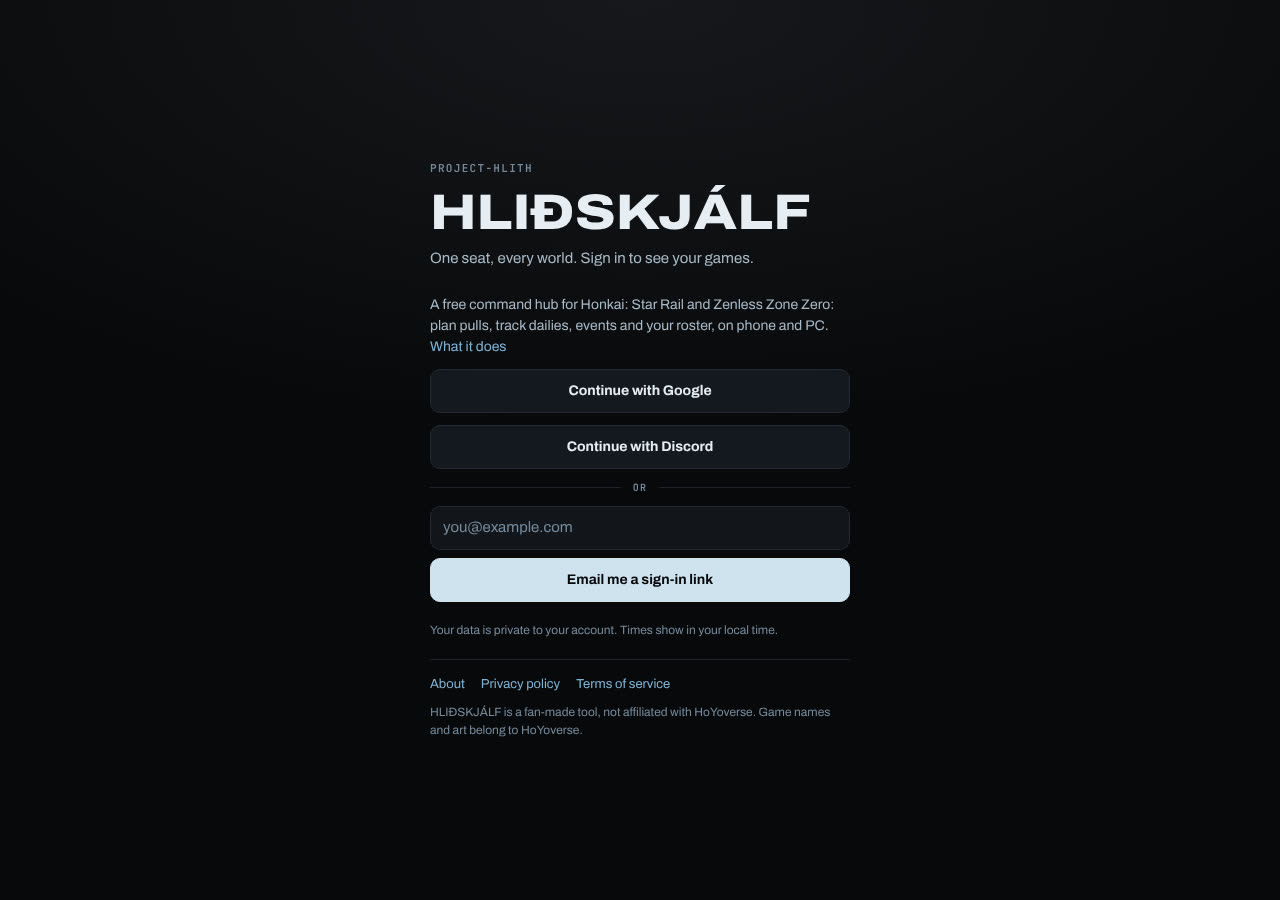
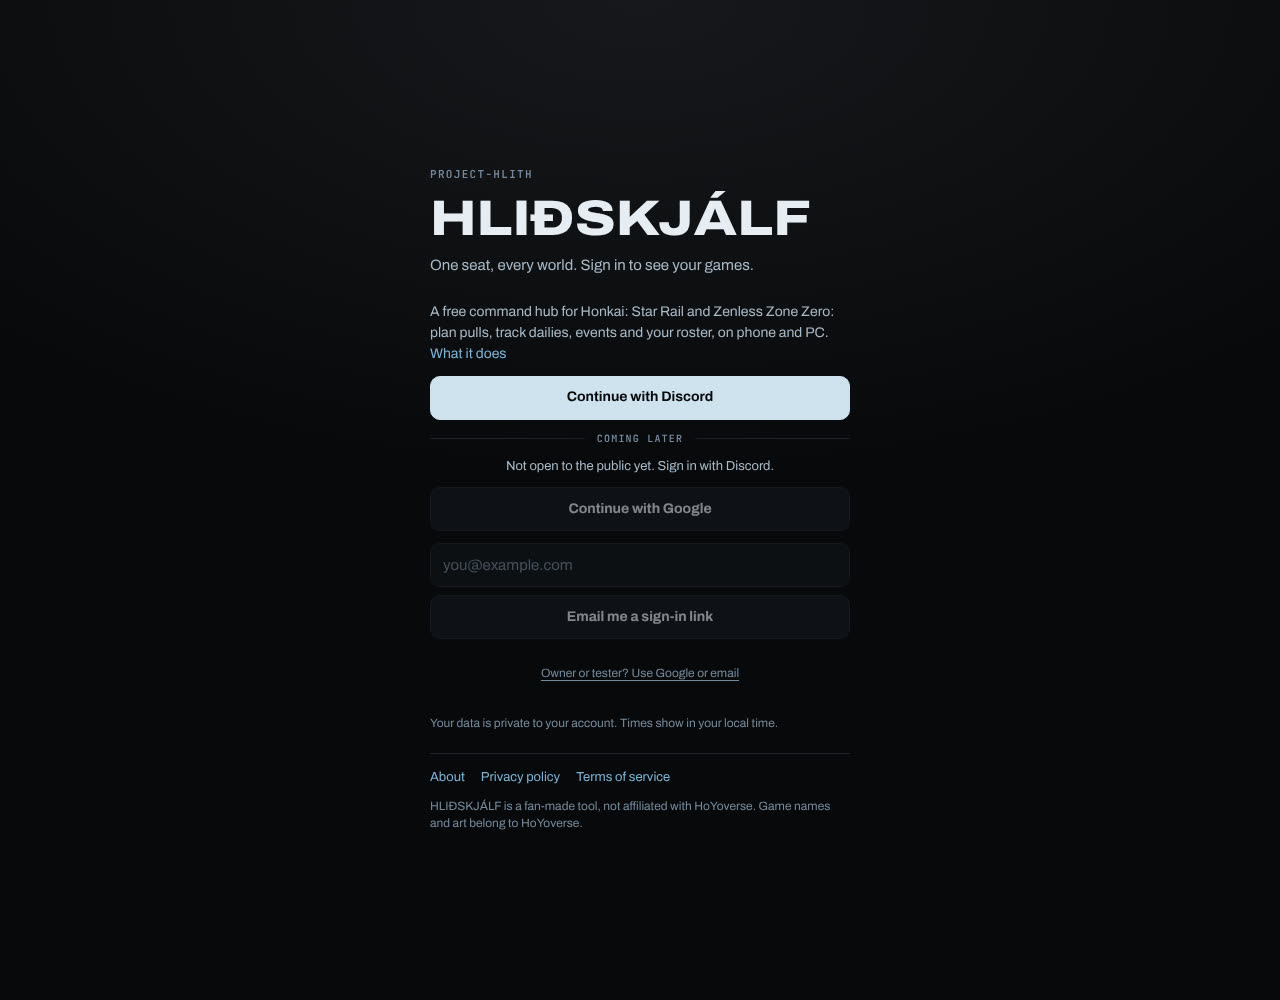
Sign-in: Discord first; Google and email not open to the public yet, with an owner/tester unlock (T55)
Discord is open to everyone and is the main button. Google (still in Google's testing mode) and
the email link (no mail service yet) are greyed out under "Not open to the public yet. Sign in
with Discord." A small "Owner or tester? Use Google or email" link unlocks them on that device
(remembered), so nobody is locked out. The privacy policy now says exactly what each sign-in
gives us; for Discord: user ID, username, display name, avatar link and email (Supabase always
asks Discord for identify + email and needs the email). About says Discord now, the rest later.

Claude-Session: https://claude.ai/code/session_01JhX321c2CZBUjDK5Z6yXKX

Changed region(s): [[0.3125, 0.1556, 0.6875, 0.5289], [0.3125, 0.56, 0.6875, 0.84]]

diff --git a/src/core/auth/SignIn.tsx b/src/core/auth/SignIn.tsx
@@ -21,12 +21,29 @@ export function LegalLinks() {
   );
 }
 
-/** Login: Google, Discord, or an email sign-in link (DESIGN §4). */
+/** Remembered on this device once an owner or tester unlocks Google and email sign-in. */
+export const TESTER_KEY = 'hlith.signin.tester';
+const readTester = () => {
+  try {
+    return localStorage.getItem(TESTER_KEY) === '1';
+  } catch {
+    return false;
+  }
+};
+
+/**
+ * Login (DESIGN §4). Discord is open to everyone and comes first. Google (still in Google's
+ * "testing" mode, so only listed accounts can use it) and the email link (no mail service set up
+ * yet) are shown greyed out with "Not open to the public yet" (owner, T55). "Owner or tester?"
+ * unlocks them on this device, so the owner and listed testers are never locked out; Google itself
+ * still refuses anyone not on its test list.
+ */
 export function SignIn({ onProvider, onEmail }: Props) {
   const [email, setEmail] = useState('');
   const [sent, setSent] = useState(false);
   const [error, setError] = useState<string | null>(null);
   const [busy, setBusy] = useState(false);
+  const [tester, setTester] = useState(readTester);
 
   const run = async (task: () => Promise<string | null>, after?: () => void) => {
     setBusy(true);
@@ -38,8 +55,17 @@ export function SignIn({ onProvider, onEmail }: Props) {
   };
   const submit = (e: FormEvent) => {
     e.preventDefault();
-    if (email.trim()) void run(() => onEmail(email.trim()), () => setSent(true));
+    if (tester && email.trim()) void run(() => onEmail(email.trim()), () => setSent(true));
   };
+  const unlock = () => {
+    try {
+      localStorage.setItem(TESTER_KEY, '1');
+    } catch {
+      /* storage blocked: unlocked for this visit only */
+    }
+    setTester(true);
+  };
+  const closed = !tester;
 
   return (
     <main className={s.page}>
@@ -51,36 +77,50 @@ export function SignIn({ onProvider, onEmail }: Props) {
           A free command hub for Honkai: Star Rail and Zenless Zone Zero: plan pulls, track dailies, events and your roster, on phone and PC.{' '}
           <a href="/about">What it does</a>
         </p>
-        <Button className={s.wide} disabled={busy} onClick={() => void run(() => onProvider('google'))}>
-          Continue with Google
-        </Button>
-        <Button className={s.wide} disabled={busy} onClick={() => void run(() => onProvider('discord'))}>
+        <Button variant="primary" className={s.wide} disabled={busy} onClick={() => void run(() => onProvider('discord'))}>
           Continue with Discord
         </Button>
-        <div className={s.or}>OR</div>
-        {sent ? (
-          <p className={s.sent} role="status">
-            Check {email} for a sign-in link. It works once and expires soon.
-          </p>
-        ) : (
-          <form className={s.form} onSubmit={submit}>
-            <label className="visually-hidden" htmlFor="signin-email">
-              Email
-            </label>
-            <input
-              id="signin-email"
-              className={s.input}
-              type="email"
-              autoComplete="email"
-              placeholder="you@example.com"
-              value={email}
-              onChange={(e) => setEmail(e.target.value)}
-              required
-            />
-            <Button variant="primary" type="submit" className={s.wide} disabled={busy}>
-              Email me a sign-in link
-            </Button>
-          </form>
+
+        <div className={s.or}>{closed ? 'COMING LATER' : 'OR'}</div>
+        <div className={closed ? s.closed : s.open} aria-describedby={closed ? 'signin-closed-note' : undefined}>
+          {closed && (
+            <p className={s.closedNote} id="signin-closed-note">
+              Not open to the public yet. Sign in with Discord.
+            </p>
+          )}
+          <Button className={s.wide} disabled={busy || closed} onClick={() => void run(() => onProvider('google'))}>
+            Continue with Google
+          </Button>
+          {sent ? (
+            <p className={s.sent} role="status">
+              Check {email} for a sign-in link. It works once and expires soon.
+            </p>
+          ) : (
+            <form className={s.form} onSubmit={submit}>
+              <label className="visually-hidden" htmlFor="signin-email">
+                Email
+              </label>
+              <input
+                id="signin-email"
+                className={s.input}
+                type="email"
+                autoComplete="email"
+                placeholder="you@example.com"
+                value={email}
+                disabled={closed}
+                onChange={(e) => setEmail(e.target.value)}
+                required
+              />
+              <Button type="submit" className={s.wide} disabled={busy || closed}>
+                Email me a sign-in link
+              </Button>
+            </form>
+          )}
+        </div>
+        {closed && (
+          <button type="button" className={s.testerLink} onClick={unlock}>
+            Owner or tester? Use Google or email
+          </button>
         )}
         {error && (
           <p className={s.error} role="alert">

diff --git a/config/legal/content.ts b/config/legal/content.ts
@@ -48,7 +48,7 @@ export const ABOUT: LegalPage = {
     { h: 'Your data' },
     { p: 'No ads, no tracking, nothing sold. Your data is private to your account and you can export or delete it at any time. Read the [Privacy policy](/privacy) and the [Terms of service](/terms).' },
     { h: 'Get started' },
-    { p: '[Open HLIÐSKJÁLF](/) and sign in with Google, Discord or an email link. It’s free.' },
+    { p: '[Open HLIÐSKJÁLF](/) and sign in with Discord. It’s free. Sign-in with Google or an email link opens to everyone later.' },
     { note: FAN_NOTICE },
   ],
 };
@@ -73,7 +73,16 @@ export const PRIVACY: LegalPage = {
     { p: `HLIÐSKJÁLF (also called PROJECT-HLITH or HLITH) is a free, fan-made tool run by one person (“we” below). Questions, requests about your data, or anything else: **${CONTACT}**.` },
 
     { h: 'What we keep, and why' },
-    { p: '**Your account.** When you sign in with Google, Discord or an email link, our sign-in provider keeps your email address, which sign-in methods you used, and when you created the account and last signed in. We use this only to let you sign in and keep your data yours.' },
+    {
+      p: '**Your account.** Signing in is handled by our sign-in provider (Supabase). It keeps what the sign-in service hands over, which sign-in methods you used, when you created the account and last signed in, and short sign-in logs (with your IP address) to keep accounts safe. We use this only to let you sign in and keep your data yours, and never show your email to anyone else.',
+    },
+    {
+      list: [
+        '**Discord** (open to everyone): your Discord user ID, username, display name, avatar picture link and the email address on your Discord account. Discord always shares the email for this kind of sign-in (the “identify” and “email” permissions), and our sign-in provider needs it to create an account; HLIÐSKJÁLF doesn’t email you or use it for anything else. We never see your Discord password, messages or servers.',
+        '**Google** (not open to the public yet): your Google account ID, name, email address and profile picture link.',
+        '**Email link** (not open to the public yet): only your email address.',
+      ],
+    },
     { p: '**Your settings and game data.** What you enter or import in the app: your games and servers, layout and look, bank log, imported pulls, roster, builds, teams, plans, backlog and event progress, and today’s ticks. It is stored with your account so it follows you to every device.' },
     { p: '**Your profile.** The name, bio, title, picture and banner you choose, and which characters and badges you show. Profile pictures and banners you upload are stored as **public links** (anyone who has the exact link can open the picture) so they can be shown; your name, bio and data are not public.' },
     { p: '**Your profile card, only if you switch it on.** If you turn on “Show my profile card with teams I share”, anyone signed in to HLIÐSKJÁLF who opens a team link you shared can see your card: your name, picture, title, badge, showcase and pull counts, as far as your privacy switches allow. It is off unless you turn it on.' },
@@ -95,7 +104,7 @@ export const PRIVACY: LegalPage = {
       list: [
         '**Supabase** (database, sign-in, file storage and server functions). Our project is hosted in **London, United Kingdom** (AWS eu-west-2).',
         '**Cloudflare** (delivers the website). It sees technical request data such as your IP address, as any web host does.',
-        '**Google** or **Discord**, if you sign in with them; sign-in emails are sent through Supabase.',
+        '**Discord** (or **Google**, once open), when you sign in with them; sign-in emails (once open) are sent through Supabase.',
         '**HoYoverse / HoYoLAB**, only for the HoYoLAB and history-link features you use: our server talks to them with your login or link on your behalf.',
         '**Anthropic**, only if you use the Assistant, with your own key and under your own agreement with Anthropic. Anthropic is in the United States.',
         '**static.nanoka.cc**, a community site the game art pictures are loaded from. Your browser fetches the pictures directly, so that site sees your IP address (but not which page you were on).',

diff --git a/src/core/auth/SignIn.test.tsx b/src/core/auth/SignIn.test.tsx
@@ -1,23 +1,51 @@
 import { fireEvent, render, screen } from '@testing-library/react';
-import { describe, expect, it, vi } from 'vitest';
-import { SignIn } from './SignIn';
+import { beforeEach, describe, expect, it, vi } from 'vitest';
+import { SignIn, TESTER_KEY } from './SignIn';
 
 describe('SignIn', () => {
-  it('offers Google, Discord and an email link', async () => {
+  beforeEach(() => localStorage.clear());
+
+  it('Discord is open to everyone and comes first; Google and email are greyed out, not open to the public yet (T55)', () => {
     const onProvider = vi.fn(async () => null);
-    const onEmail = vi.fn(async () => null);
-    render(<SignIn onProvider={onProvider} onEmail={onEmail} />);
+    render(<SignIn onProvider={onProvider} onEmail={async () => null} />);
+    const buttons = screen.getAllByRole('button').map((b) => b.textContent);
+    expect(buttons[0]).toBe('Continue with Discord');
     fireEvent.click(screen.getByRole('button', { name: 'Continue with Discord' }));
     expect(onProvider).toHaveBeenCalledWith('discord');
+    expect(screen.getByText('Not open to the public yet. Sign in with Discord.')).toBeInTheDocument();
+    expect(screen.getByRole('button', { name: 'Continue with Google' })).toBeDisabled();
+    expect(screen.getByLabelText('Email')).toBeDisabled();
+    expect(screen.getByRole('button', { name: 'Email me a sign-in link' })).toBeDisabled();
+  });
+
+  it('“Owner or tester?” unlocks Google and the email link, and is remembered on this device', async () => {
+    const onProvider = vi.fn(async () => null);
+    const onEmail = vi.fn(async () => null);
+    const { unmount } = render(<SignIn onProvider={onProvider} onEmail={onEmail} />);
+    fireEvent.click(screen.getByRole('button', { name: 'Owner or tester? Use Google or email' }));
+    expect(localStorage.getItem(TESTER_KEY)).toBe('1');
+    fireEvent.click(screen.getByRole('button', { name: 'Continue with Google' }));
+    expect(onProvider).toHaveBeenCalledWith('google');
     fireEvent.change(screen.getByLabelText('Email'), { target: { value: 'a@b.co' } });
     fireEvent.submit(screen.getByRole('button', { name: 'Email me a sign-in link' }).closest('form') as HTMLFormElement);
     expect(await screen.findByRole('status')).toHaveTextContent('Check a@b.co');
     expect(onEmail).toHaveBeenCalledWith('a@b.co');
+    unmount();
+    render(<SignIn onProvider={onProvider} onEmail={onEmail} />);
+    expect(screen.getByRole('button', { name: 'Continue with Google' })).toBeEnabled();
+    expect(screen.queryByRole('button', { name: /Owner or tester/ })).toBeNull();
   });
 
   it('shows the error instead of pretending it worked', async () => {
     render(<SignIn onProvider={async () => 'Provider is not enabled'} onEmail={async () => null} />);
-    fireEvent.click(screen.getByRole('button', { name: 'Continue with Google' }));
+    fireEvent.click(screen.getByRole('button', { name: 'Continue with Discord' }));
     expect(await screen.findByRole('alert')).toHaveTextContent('Provider is not enabled');
+  });
+
+  it('links to About, Privacy and Terms with the fan notice', () => {
+    render(<SignIn onProvider={async () => null} onEmail={async () => null} />);
+    expect(screen.getByRole('link', { name: 'Privacy policy' })).toHaveAttribute('href', '/privacy');
+    expect(screen.getByRole('link', { name: 'Terms of service' })).toHaveAttribute('href', '/terms');
+    expect(screen.getByText(/fan-made tool, not affiliated with HoYoverse/)).toBeInTheDocument();
   });
 });

diff --git a/tests/legalPages.test.ts b/tests/legalPages.test.ts
@@ -45,6 +45,8 @@ describe('public pages: About, Privacy, Terms (T55)', () => {
       readdirSync(resolve(__dirname, '..', dir), { withFileTypes: true }).flatMap((e) => (e.isDirectory() ? src(`${dir}/${e.name}`) : /\.(tsx?|html)$/.test(e.name) ? [`${dir}/${e.name}`] : []));
     const code = [...src('src'), 'index.html'].map((f) => readFileSync(resolve(__dirname, '..', f), 'utf8')).join('\n');
     expect(code).not.toMatch(/document\.cookie\s*=|gtag\(|googletagmanager|plausible|posthog|sentry/i);
+    // Exactly what Discord sign-in gives us (Supabase always asks Discord for identify + email).
+    expect(t).toContain('Discord user ID, username, display name, avatar picture link and the email address');
     // The Assistant key never goes into a backup file.
     expect(t).toContain('never in backup files');
     expect(readFileSync(resolve(__dirname, '../src/core/data/backup.ts'), 'utf8')).toContain("k === 'hlith.assistant.key'");

diff --git a/src/core/auth/signin.module.css b/src/core/auth/signin.module.css
@@ -109,3 +109,36 @@
   line-height: 1.45;
   color: var(--ink-4);
 }
+
+/* Google and email: not open to the public yet (owner, T55). Greyed out until an owner or tester unlocks them. */
+.open,
+.closed {
+  display: grid;
+  gap: var(--s-3);
+}
+.closed :is(button, input) {
+  opacity: 0.55;
+}
+.closedNote {
+  margin: 0;
+  font-size: 13px;
+  color: var(--ink-3);
+  text-align: center;
+}
+.testerLink {
+  justify-self: center;
+  min-height: var(--tap-min);
+  padding: 0 var(--s-2);
+  border: 0;
+  background: none;
+  color: var(--ink-4);
+  font: inherit;
+  font-size: 12px;
+  text-decoration: underline;
+  text-underline-offset: 3px;
+  cursor: pointer;
+}
+.testerLink:focus-visible {
+  outline: 2px solid var(--glacier);
+  outline-offset: 2px;
+}

diff --git a/docs/progress/2026-10-11-frame-t55-go-public.md b/docs/progress/2026-10-11-frame-t55-go-public.md
@@ -9,5 +9,9 @@ T11: a daily job (`purge-accounts`, migration 0013) finishes deletions after the
 (rows, pictures, saved HoYoLAB logins, the sign-in) and removes nightly backups older than 30 days;
 tested in a local database. Also fixed: the Assistant key no longer goes into backup files.
 Screenshots: `docs/owner-reports/2026-10-11/go-public/`.
+Sign-in: Discord is open to everyone and first; Google and the email link are greyed out ("Not
+open to the public yet. Sign in with Discord."), and "Owner or tester? Use Google or email" unlocks
+them on that device. Supabase's Discord sign-in always asks for identify + email and needs the
+email, so it can't be dropped; the policy says exactly what Discord gives us.
 Left for the owner: fill in [CONTACT EMAIL]; in Google Cloud, set the homepage, privacy and terms
 links on the OAuth consent screen and publish the app.
